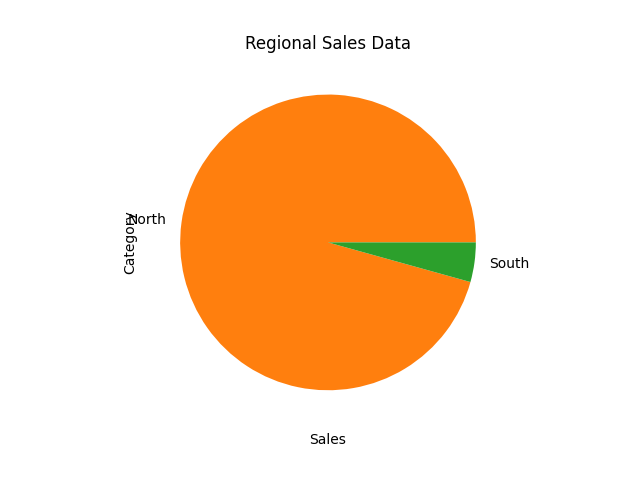
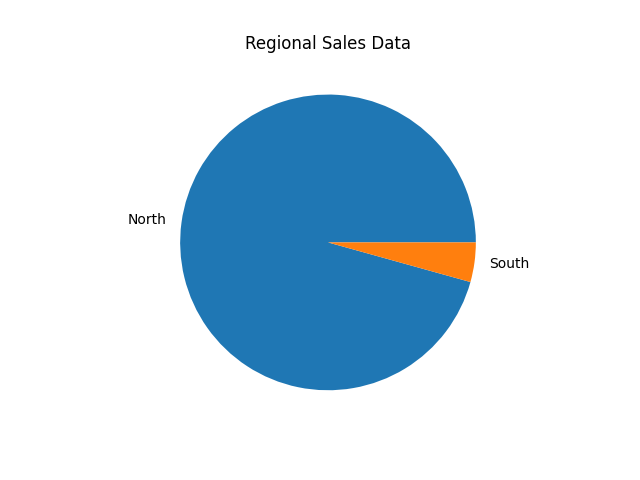
done with data analysis, not the best but moving on

Changed region(s): [[0.2812, 0.1875, 0.75, 0.8125], [0.1875, 0.4375, 0.2188, 0.5625], [0.4688, 0.9062, 0.5625, 0.9375]]

diff --git a/W2/DataAnalysis/starter_code/utils/visualizations.py b/W2/DataAnalysis/starter_code/utils/visualizations.py
@@ -1,5 +1,6 @@
 import matplotlib.pyplot as plt
-from analysis import *
+import pandas as pd
+from .analysis import *
 
 def create_category_bar_chart(category_data, output_path):
     """
@@ -8,11 +9,13 @@ def create_category_bar_chart(category_data, output_path):
     - Use a professional color scheme
     - Save to output_path
     """
-    plt.barh(category_data["total_sales"], category_data["category"])
-    plt.xlabel("Sales")
-    plt.ylabel("Category")
-    plt.title("Sales by Category")
-    plt.savefig(output_path)
+    fig, ax = plt.subplots()
+    ax.barh(category_data["total_sales"], category_data["category"])
+    ax.set_xlabel("Sales")
+    ax.set_ylabel("Category")
+    ax.set_title("Sales by Category")
+    fig.savefig(output_path)
+    plt.close(fig)
 
 def create_regional_pie_chart(region_data, output_path):
     """
@@ -21,9 +24,11 @@ def create_regional_pie_chart(region_data, output_path):
     - Use distinct colors for each region
     - Save to output_path
     """
-    plt.pie(region_data["percentage_of_total"], labels=region_data["region"])
-    plt.title("Regional Sales Data")
-    plt.savefig(output_path)
+    fig, ax = plt.subplots()
+    ax.pie(region_data["percentage_of_total"], labels=region_data["region"])
+    ax.set_title("Regional Sales Data")
+    fig.savefig(output_path)
+    plt.close(fig)
 
 def create_sales_trend_line(daily_data, output_path):
     """
@@ -33,13 +38,22 @@ def create_sales_trend_line(daily_data, output_path):
     - Add proper axis labels and title
     - Save to output_path
     """
+    # Make a local copy so we don't mutate the caller's DataFrame
+    daily_data = daily_data.copy()
+
+    # Ensure dates are datetime-like for Matplotlib date plotting
+    daily_data["date"] = pd.to_datetime(daily_data["date"])
+
     daily_data["rolling_avg"] = daily_data["total_sales"].rolling(window=7).mean()
 
-    plt.plot(daily_data["date"], daily_data["total_sales"], label="Total Sales")
-    plt.plot(daily_data["date"], daily_data["rolling_avg"], label="Rolling Average (7 Days)")
-    plt.xlabel("Date")
-    plt.ylabel("Sales ($)")
+    fig, ax = plt.subplots()
+    ax.plot(daily_data["date"], daily_data["total_sales"], label="Total Sales")
+    ax.plot(daily_data["date"], daily_data["rolling_avg"], label="Rolling Average (7 Days)")
+    ax.set_xlabel("Date")
+    ax.set_ylabel("Sales ($)")
+    ax.legend()
 
+    # Add weekend shading
     daily_data = daily_data.rename(columns={"date": "order_date"})
     daily_data = add_time_features(daily_data)
 
@@ -47,8 +61,10 @@ def create_sales_trend_line(daily_data, output_path):
         if i == 0:
             continue
         if val == 6:
-            plt.axvspan(daily_data["order_date"][i - 1], daily_data["order_date"][i], color="grey", alpha=0.25)
-    plt.savefig(output_path)
+            ax.axvspan(daily_data["order_date"][i - 1], daily_data["order_date"][i], color="grey", alpha=0.25)
+
+    fig.savefig(output_path)
+    plt.close(fig)
         
 
 def create_dashboard(df, output_dir):
@@ -66,38 +82,40 @@ def create_dashboard(df, output_dir):
 
     cat_data = sales_by_category(df)
     ax[0].bar(cat_data["category"], cat_data["total_sales"])
-    ax[0].xlabel("Category")
-    ax[0].ylabel("Sales")
-    ax[0].title("Sales by Category")
+    ax[0].set_xlabel("Category")
+    ax[0].set_ylabel("Sales")
+    ax[0].set_title("Sales by Category")
 
     reg_data = sales_by_region(df)
     ax[1].pie(reg_data["percentage_of_total"], labels=reg_data["region"])
-    ax[1].title("Regional Sales Data")
+    ax[1].set_title("Regional Sales Data")
 
     day_data = daily_sales_trend(df)
-    daily_data["rolling_avg"] = day_data["sales_totals"].rolling(window=7).mean()
+    day_data["rolling_avg"] = day_data["total_sales"].rolling(window=7).mean()
 
-    ax[2].plot(daily_data["date"], daily_data["total_sales"], label="Total Sales")
-    ax[2].plot(daily_data["date"], daily_data["rolling_avg"], label="Rolling Average (7 Days)")
-    ax[2].xlabel("Date")
-    ax[2].ylabel("Sales ($)")
+    ax[2].plot(day_data["date"], day_data["total_sales"], label="Total Sales")
+    ax[2].plot(day_data["date"], day_data["rolling_avg"], label="Rolling Average (7 Days)")
+    ax[2].set_xlabel("Date")
+    ax[2].set_ylabel("Sales ($)")
+    ax[2].legend()
 
-    daily_data = daily_data.rename(columns={"date": "order_date"})
-    daily_data = add_time_features(daily_data)
+    day_data = day_data.rename(columns={"date": "order_date"})
+    day_data = add_time_features(day_data)
 
-    for i, val in enumerate(daily_data["day_of_week"]):
+    for i, val in enumerate(day_data["day_of_week"]):
         if i == 0:
             continue
         if val == 6:
-            ax[2].axvspan(daily_data["order_date"][i - 1], daily_data["order_date"][i], color="grey", alpha=0.25)
+            ax[2].axvspan(day_data["order_date"][i - 1], day_data["order_date"][i], color="grey", alpha=0.25)
 
     prod_data = top_products(df)
     ax[3].barh(prod_data["total_sales"], prod_data["product_name"])
-    ax[3].xlabel("Sales ($)")
-    ax[3].ylabel("Product")
-    ax[3].title("Top 10 Products")
+    ax[3].set_xlabel("Sales ($)")
+    ax[3].set_ylabel("Product")
+    ax[3].set_title("Top 10 Products")
 
     fig.savefig(output_dir)
+    plt.close(fig)
 
 
 if __name__ == "__main__":

diff --git a/W2/DataAnalysis/starter_code/main.py b/W2/DataAnalysis/starter_code/main.py
@@ -1,19 +1,23 @@
-import sys
 from utils import *
 
-def main(input_path: str, output_dir: str):
+def main():
     # Load Data
-
     # Clean/Transform Data
+    df = load_data("./data/orders.csv")
 
     # Analyze
+    category_data = sales_by_category(df)
+    region_data = sales_by_region(df)
+    daily_data = daily_sales_trend(df)
 
     # Generate Visuals
+    create_category_bar_chart(category_data, './output/category_chart.png')
+    create_regional_pie_chart(region_data, './output/regional_chart.png')
+    create_sales_trend_line(daily_data, './output/sales_trend_chart.png')
+    create_dashboard(df, './output/dashboard.png')
 
     # Print Summary
-
-
-    pass
+    explore_data(df)
 
 if __name__ == "__main__":
-    main(sys.argv[1], sys.argv[2])
+    main()

diff --git a/W2/DataAnalysis/starter_code/utils/analysis.py b/W2/DataAnalysis/starter_code/utils/analysis.py
@@ -9,7 +9,7 @@ def load_data(filepath):
     """
     df = pd.read_csv(filepath)
     df = clean_data(df)
-    print(df)
+    # print(df)
     return df
 
 def explore_data(df):
